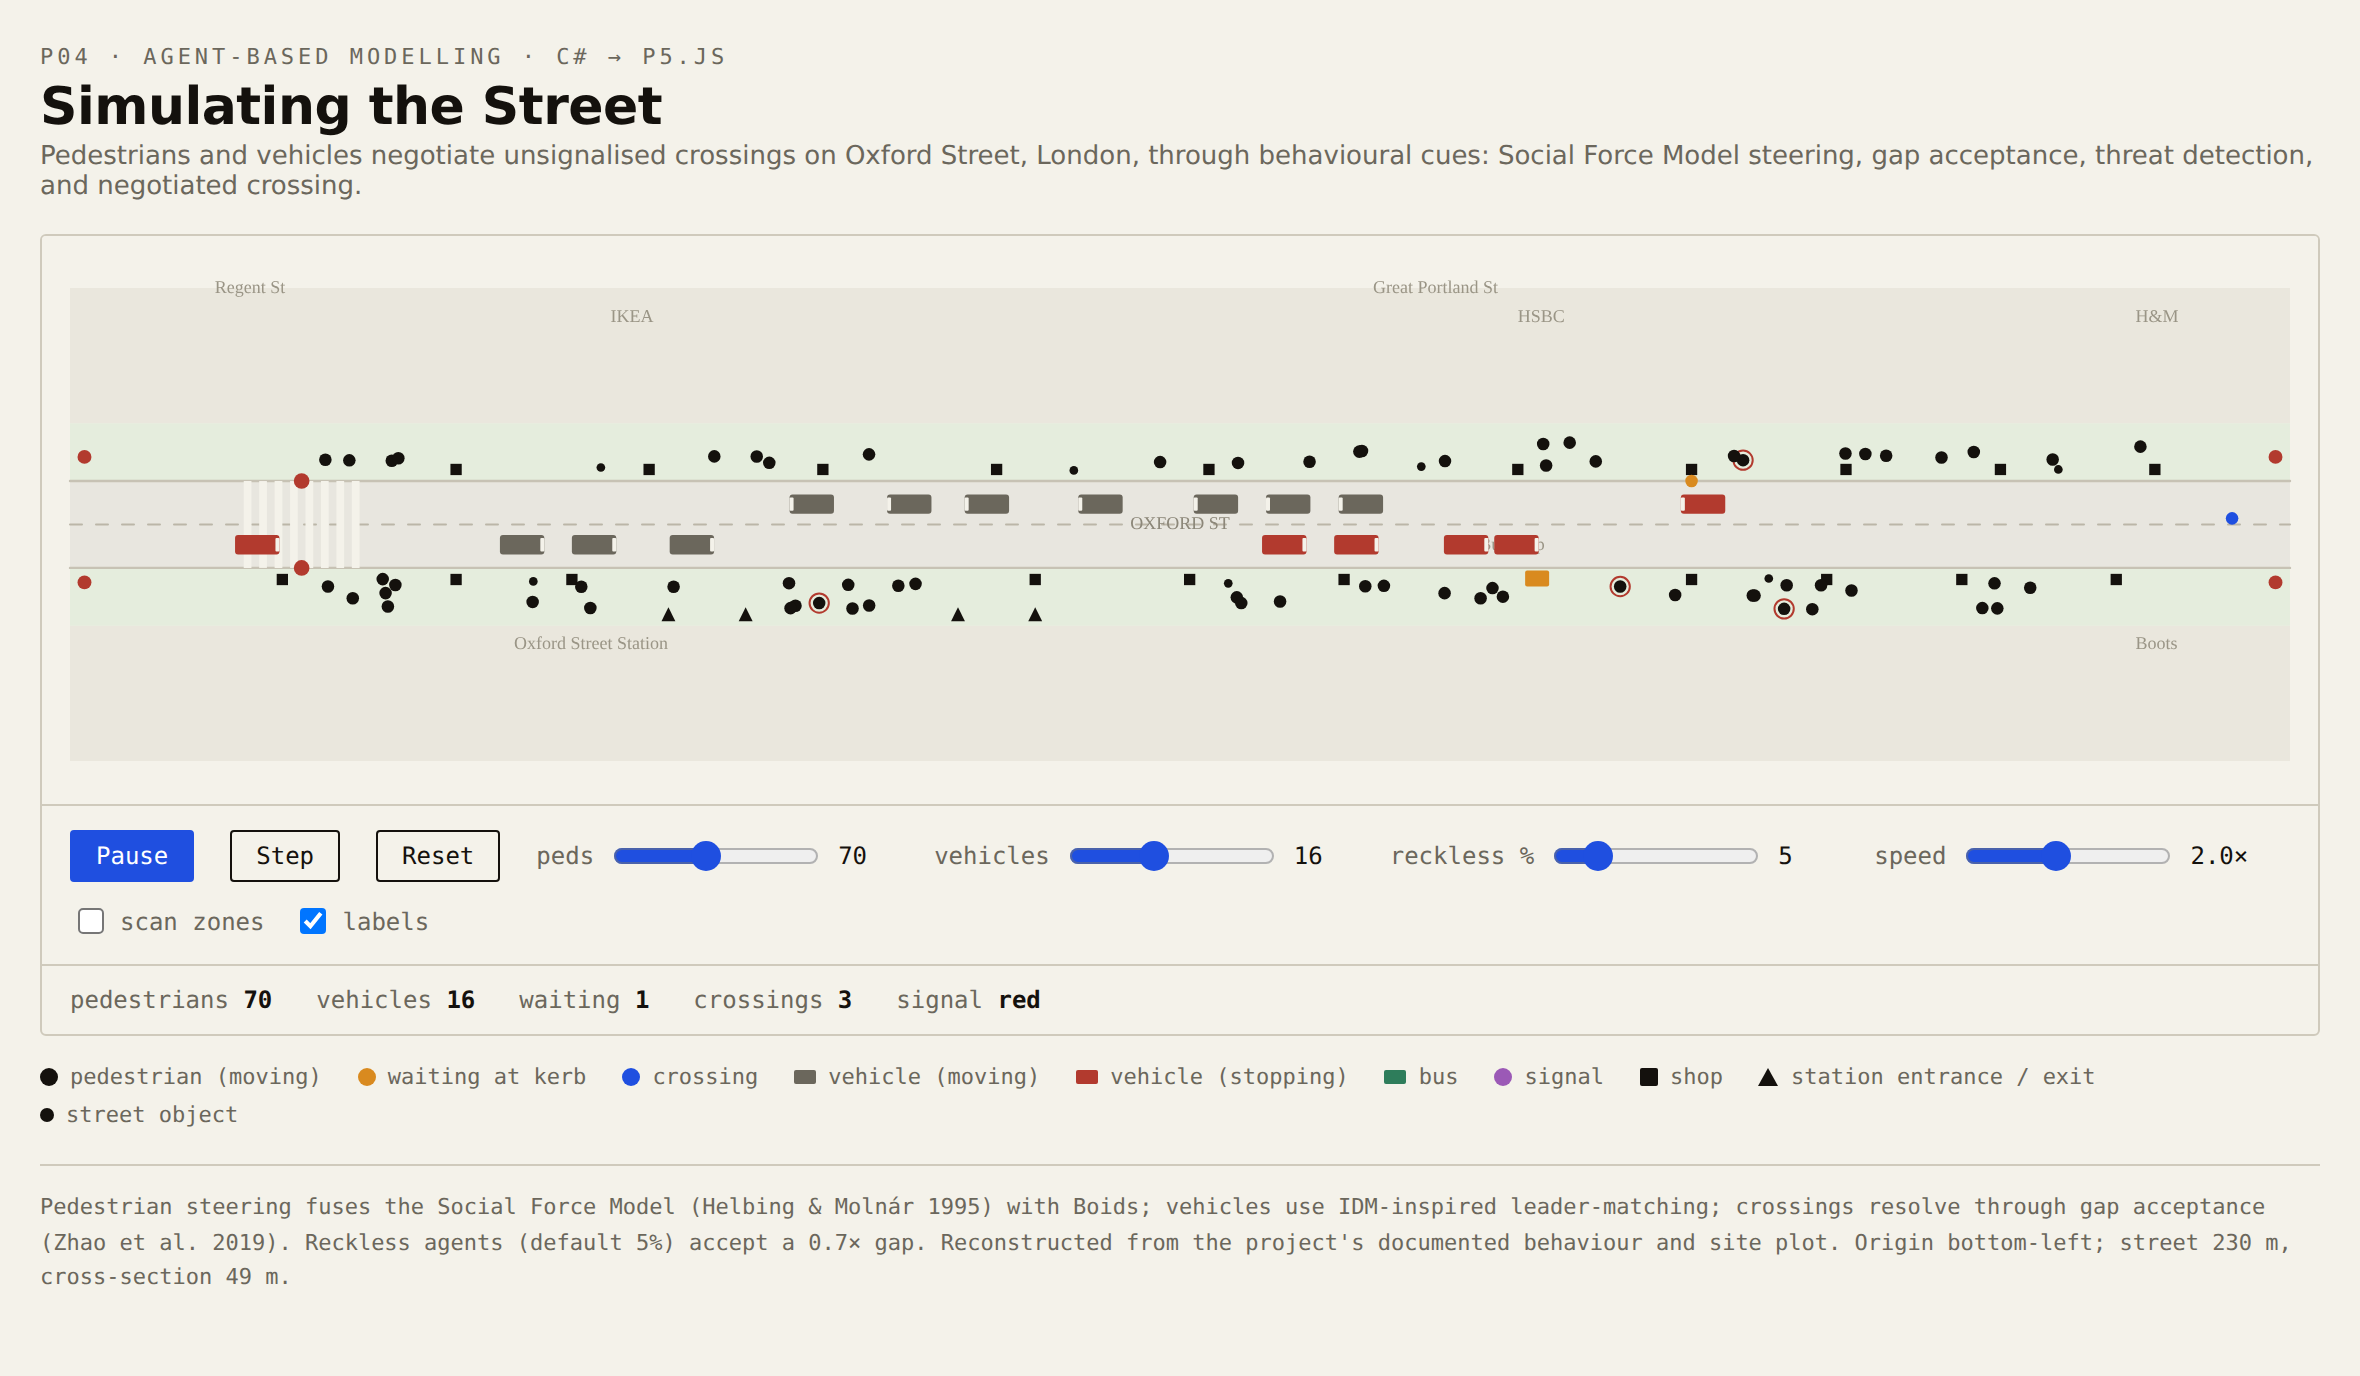
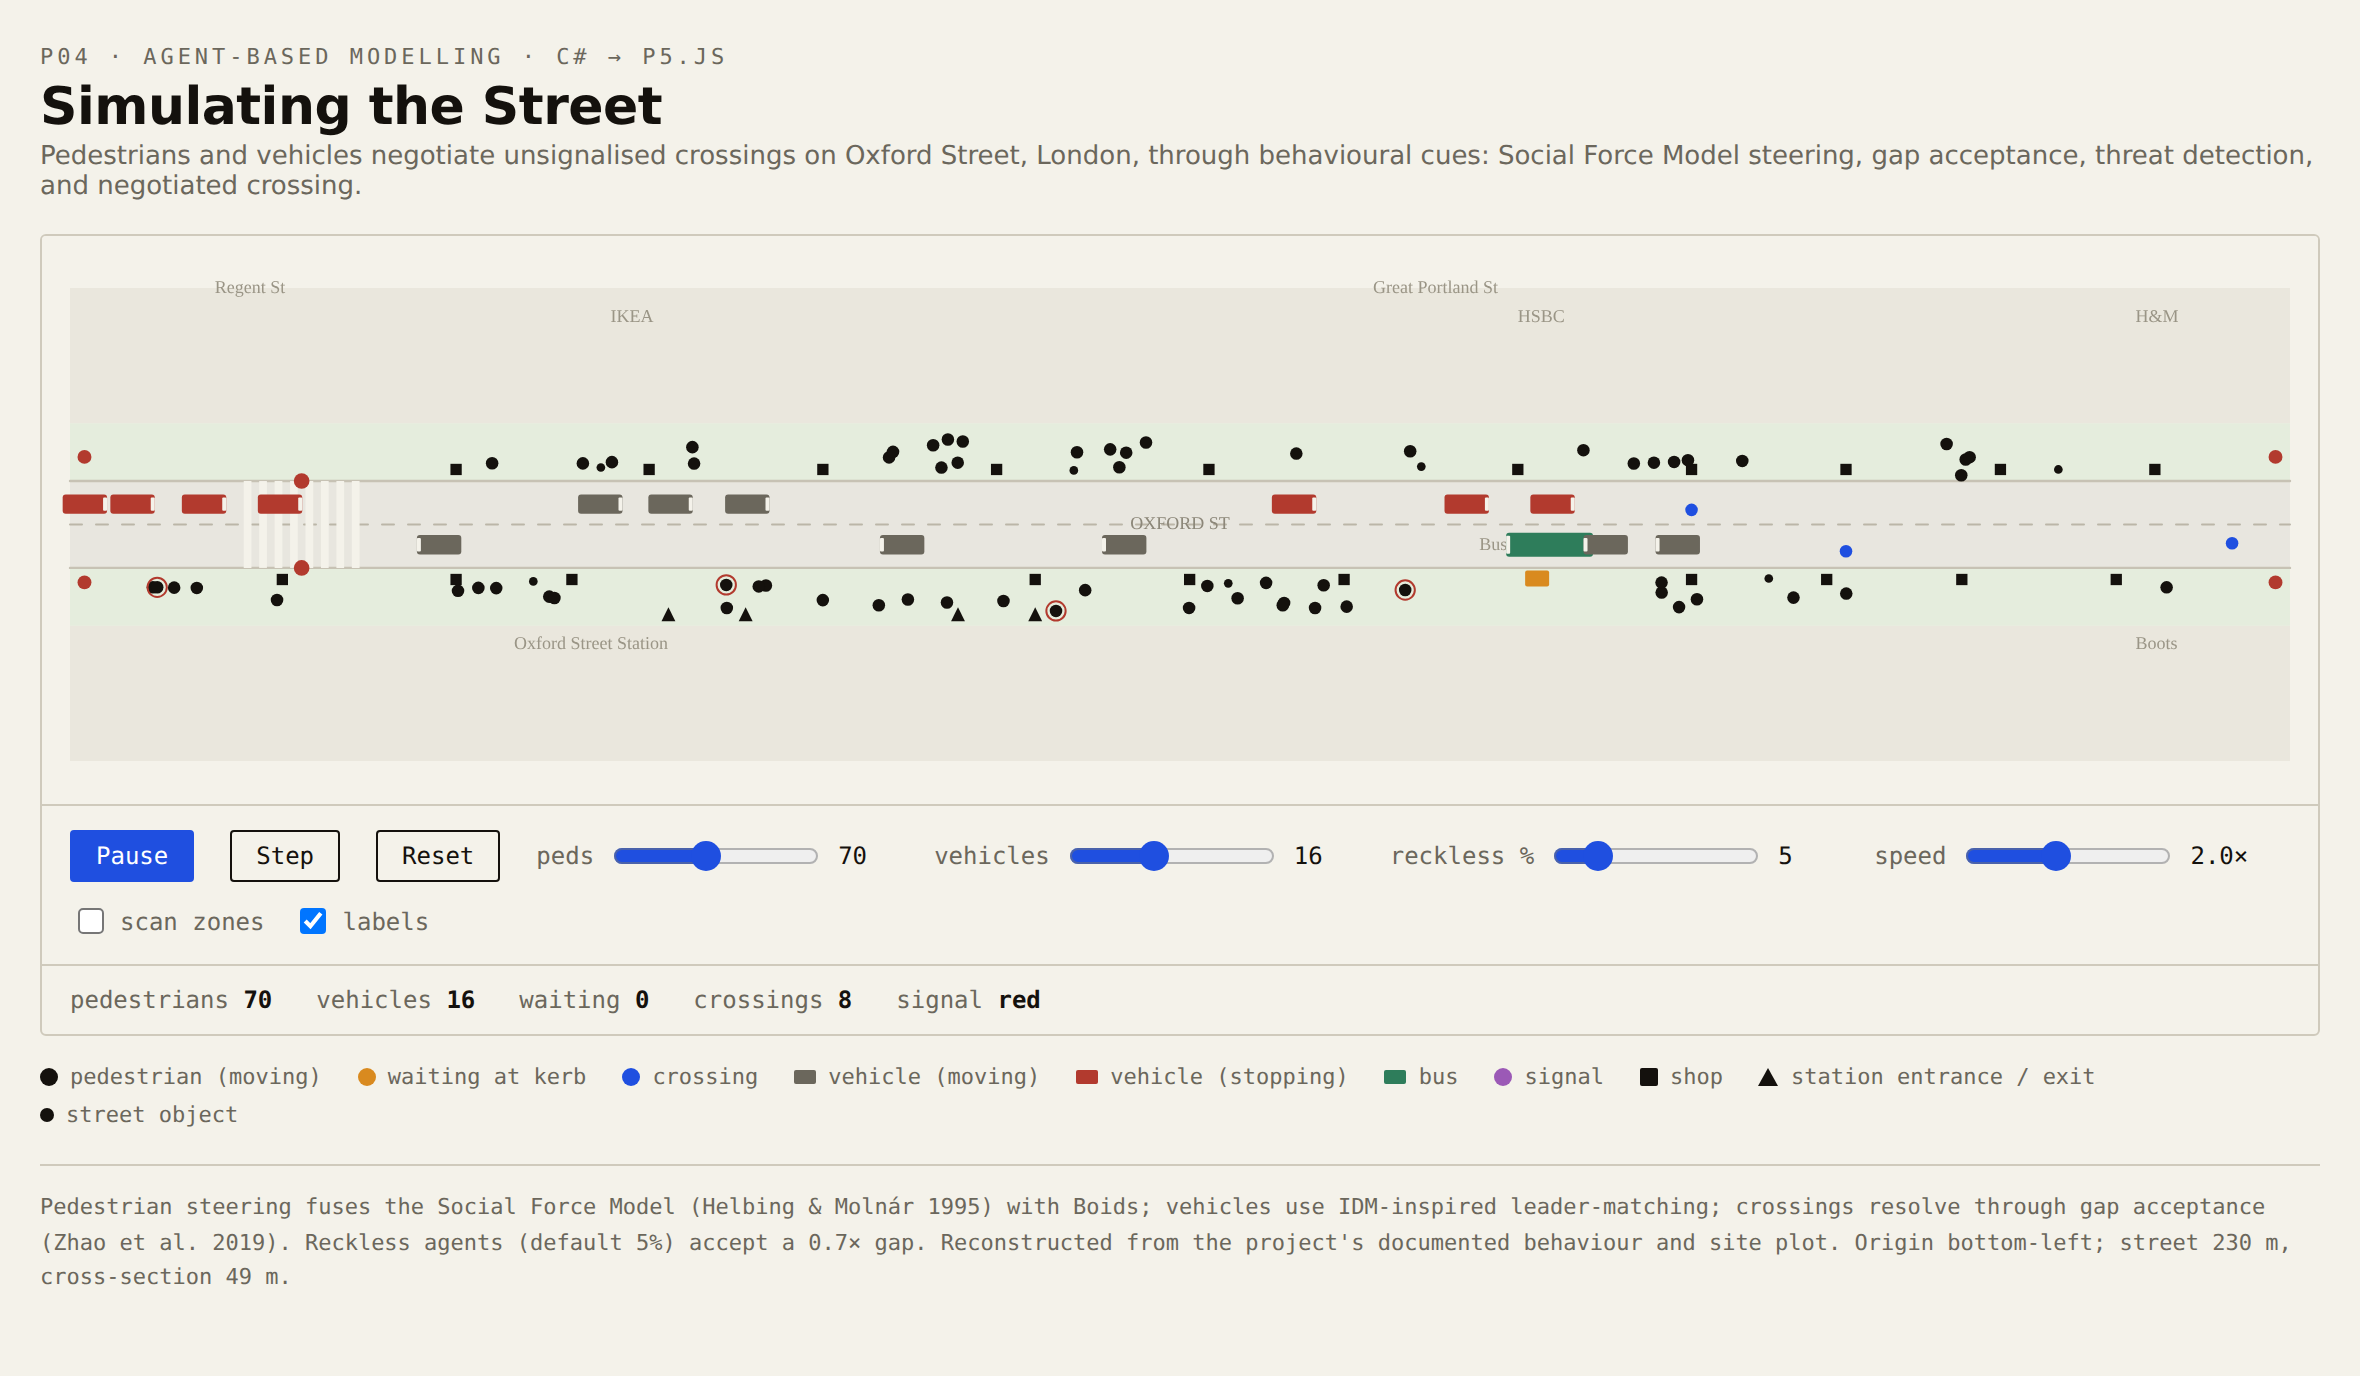
Reverse the vehicle lanes
Left-to-right traffic now uses the upper lane and right-to-left traffic the
lower lane. Update the README screenshot.

diff --git a/index.html b/index.html
@@ -112,7 +112,7 @@
 const L = 230, H = 49;
 const SOUTH_KERB = 20, NORTH_KERB = 29;            // road edges
 const SP = [14.5, 19.4], NP = [29.6, 34.5];        // walkable pavement bands
-const LANE_E = 22.4, LANE_W = 26.6;                // lane centrelines (east +x / west -x)
+const LANE_E = 26.6, LANE_W = 22.4;                // lane centrelines (east +x upper / west -x lower)
 const LANE_HW = 2.0;                               // half lane width for snapping
 
 // ---- behavioural parameters (from the project board) --------

diff --git a/simulating-the-street.html b/simulating-the-street.html
@@ -112,7 +112,7 @@
 const L = 230, H = 49;
 const SOUTH_KERB = 20, NORTH_KERB = 29;            // road edges
 const SP = [14.5, 19.4], NP = [29.6, 34.5];        // walkable pavement bands
-const LANE_E = 22.4, LANE_W = 26.6;                // lane centrelines (east +x / west -x)
+const LANE_E = 26.6, LANE_W = 22.4;                // lane centrelines (east +x upper / west -x lower)
 const LANE_HW = 2.0;                               // half lane width for snapping
 
 // ---- behavioural parameters (from the project board) --------